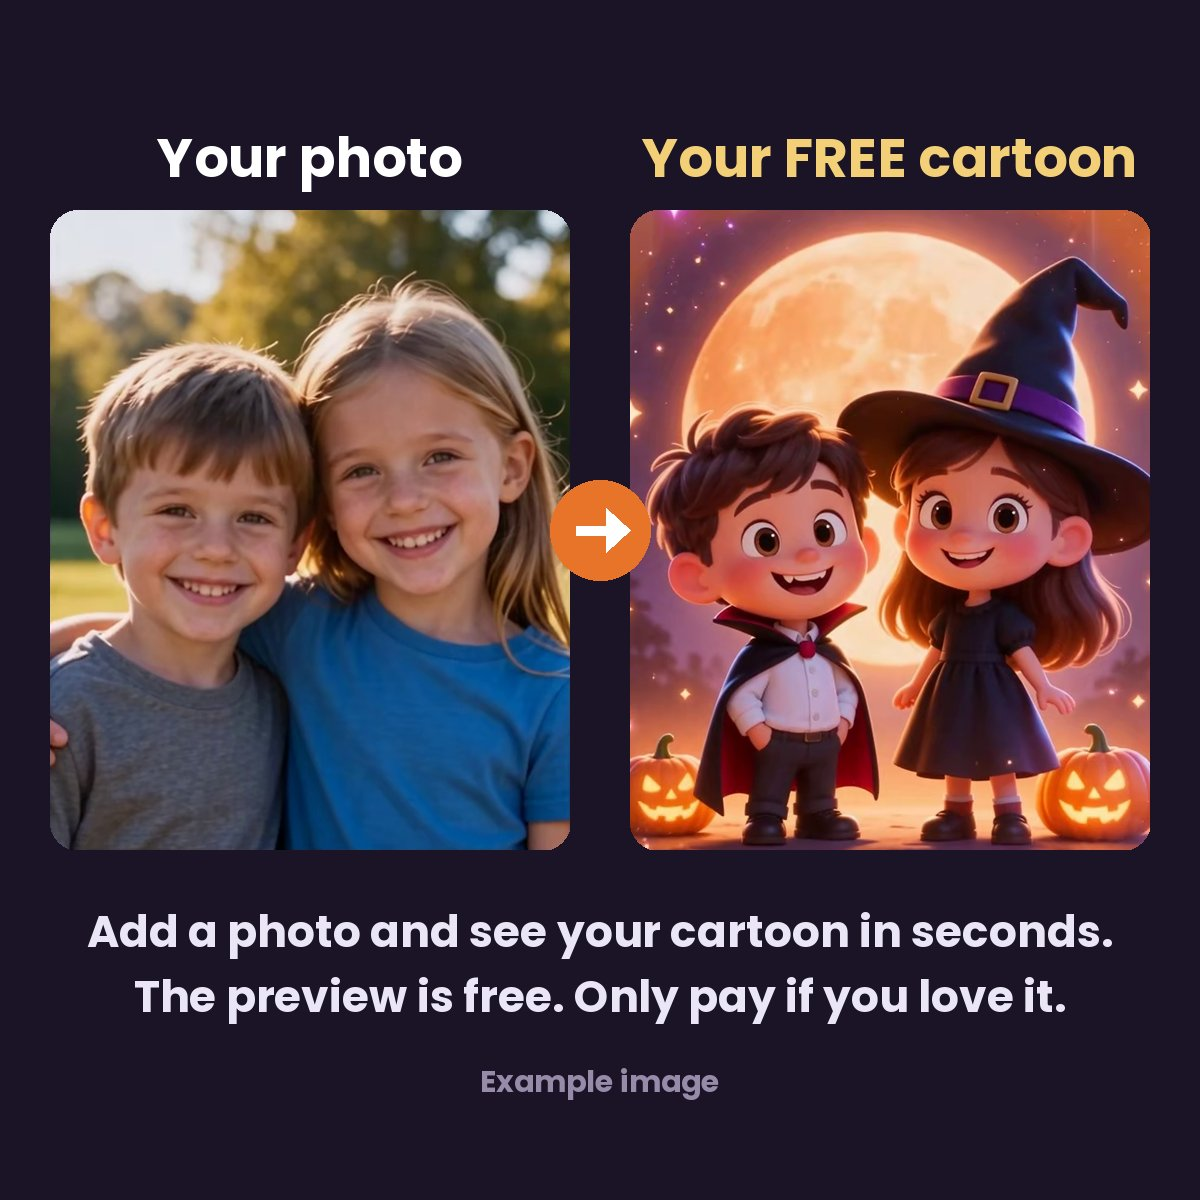
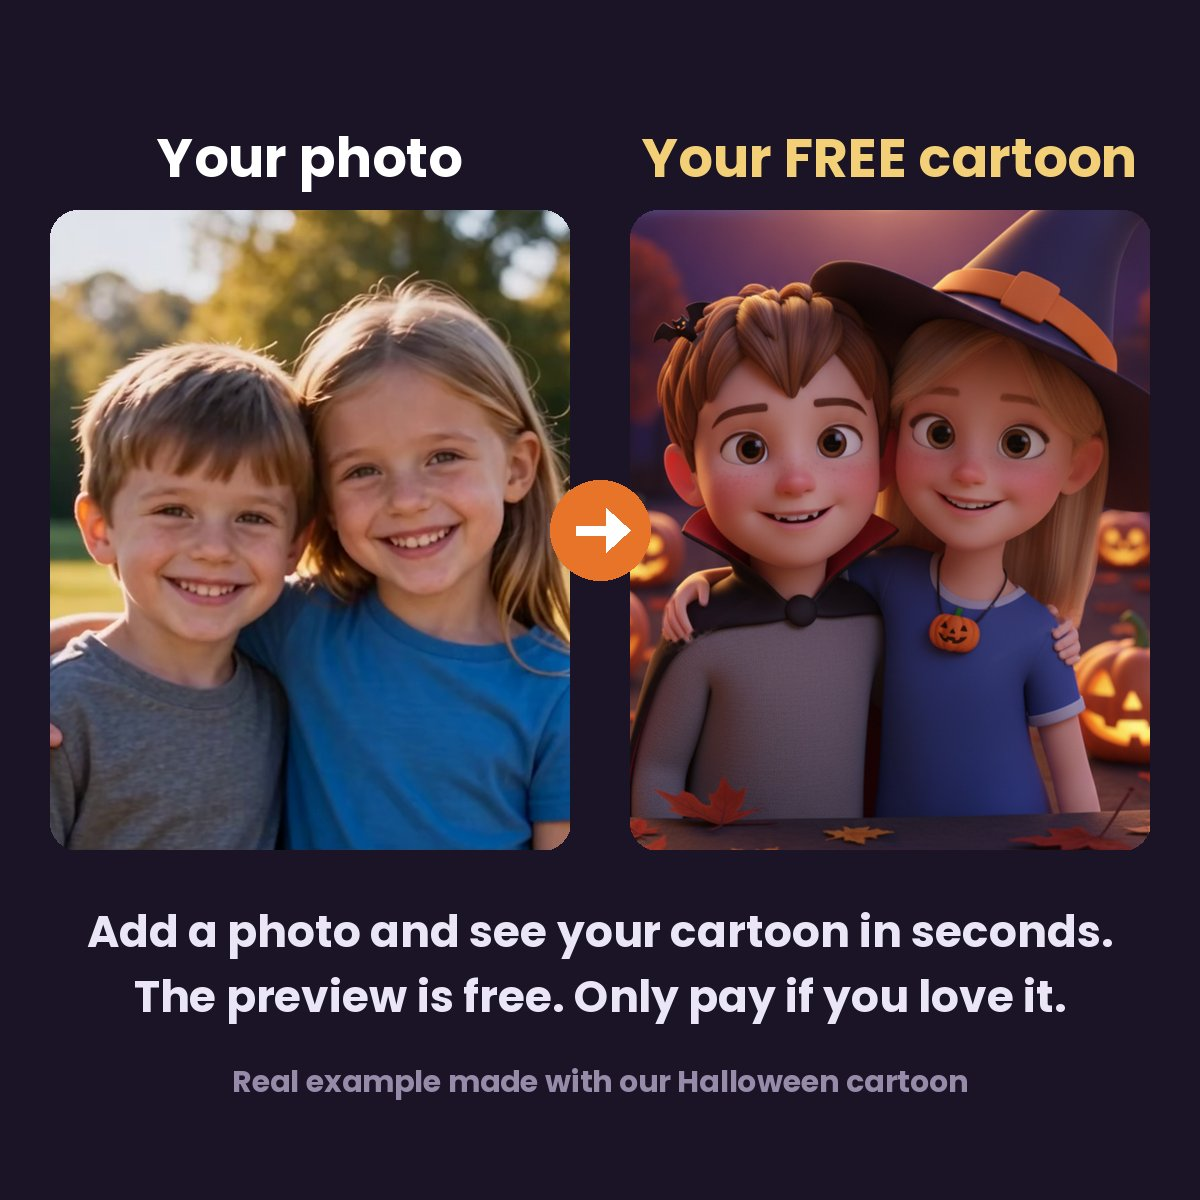
Halloween page: photo step first, real cartoon example, easier basket
- Photo upload is now step 1 on the Halloween page (other pages unchanged)
- T-shirt size/colour picker sits directly under the T-shirt option
- Example image uses a real cartoon from our Halloween preview
- Basket gets an 'Empty basket' button and a clearer remove cross

Claude-Session: https://claude.ai/code/session_01MtCPF3kmhX7aPXARQ9Ngt1

diff --git a/landing.js b/landing.js
@@ -373,7 +373,7 @@ function ONJJEM_renderLanding(P) {
               <span class="o-price">${money(o.price)}</span>
             </label>`).join("")}
         </div>
-        <div id="variantWrap" style="display:none;margin-top:0.7rem">
+        <div id="variantWrap" style="display:none;margin:0.7rem 0 0.9rem">
           <span style="font-weight:700;display:block;margin-bottom:0.35rem">👕 Choose the T-shirt size &amp; colour</span>
           <div style="display:flex;gap:0.5rem">
           <select id="sizeSel" aria-label="Size" style="flex:1;padding:0.75rem;border-radius:10px;border:1px solid #555;background:#1f1f1f;color:#fff;font-size:1rem"></select>
@@ -424,6 +424,19 @@ function ONJJEM_renderLanding(P) {
   <div class="sticky-buy" id="stickyBuy"><a href="#order" class="btn">${P.stickyCta ? esc(P.stickyCta) : `${esc(P.cta || "Create yours now")} — ${money(fromPrice)}`}</a></div>
   `;
 
+  // Pages can ask for the photo step first (it's the step that leads to the free preview).
+  if (P.photoFirst) {
+    const ob = app.querySelector(".order-box");
+    const [lab1, lab2] = ob.querySelectorAll(".order-label");
+    const total = ob.querySelector(".order-total");
+    const moving = [];
+    for (let n = lab2; n && n !== total; n = n.nextSibling) moving.push(n);
+    moving.forEach(n => ob.insertBefore(n, lab1));
+    lab2.textContent = lab2.textContent.replace(/^2\./, "1.");
+    lab1.textContent = lab1.textContent.replace(/^1\./, "2.");
+    lab1.style.marginTop = "1rem";
+  }
+
   // Option selection
   const optionEls = app.querySelectorAll(".option");
   // Size / colour choices for options that have them (e.g. T-shirts).
@@ -436,6 +449,8 @@ function ONJJEM_renderLanding(P) {
     sizeSel.innerHTML = `<option value="">Choose a size…</option>` + o.sizes.map(([v, l]) => `<option value="${v}">${esc(l)}</option>`).join("");
     colourSel.innerHTML = o.colours.map(([v, l]) => `<option value="${v}">${esc(l)}</option>`).join("");
     variantWrap.style.display = "block";
+    const selEl = app.querySelectorAll(".option")[selected];
+    if (selEl) selEl.after(variantWrap);
   }
   // The option as it will be ordered, with the chosen size and colour.
   function chosen() {
@@ -790,10 +805,16 @@ async function ONJJEM_openBasket() {
         <button class="cartoon-btn-primary" id="basketCheckout" style="width:100%;margin-top:0.6rem">Checkout securely →</button>
         <div id="basketStatus" class="cartoon-email-note" style="min-height:1.2em;margin-top:0.4rem"></div>` : ""}
       <button class="cartoon-btn-secondary" id="basketMore" style="width:100%;margin-top:0.5rem">Keep shopping</button>
+      ${items.length ? `<button type="button" id="basketEmpty" style="display:block;margin:0.8rem auto 0;background:none;border:none;color:#bbb;text-decoration:underline;font-size:0.9rem;cursor:pointer">🗑 Empty basket</button>` : ""}
     </div>`;
   document.body.appendChild(panel);
   panel.addEventListener("click", e => { if (e.target === panel) panel.remove(); });
   panel.querySelector("#basketMore").onclick = () => { panel.remove(); if (!window.PAGE) location.href = "/tiktok"; };
+  const emptyBtn = panel.querySelector("#basketEmpty");
+  if (emptyBtn) emptyBtn.onclick = async () => {
+    if (!confirm("Remove everything from your basket?")) return;
+    await ONJJEM_Basket.clear(); ONJJEM_openBasket();
+  };
   panel.querySelectorAll(".basket-remove").forEach(b => b.onclick = async () => { await ONJJEM_Basket.remove(b.dataset.id); ONJJEM_openBasket(); });
   const go = panel.querySelector("#basketCheckout");
   if (go) go.onclick = async () => {

diff --git a/basket.css b/basket.css
@@ -8,7 +8,7 @@
 .basket-info { flex: 1; font-size: 0.9rem; }
 .basket-info small { display: block; opacity: 0.75; }
 .basket-price { font-weight: 800; white-space: nowrap; }
-.basket-remove { background: none; border: none; color: inherit; opacity: 0.6; font-size: 1rem; cursor: pointer; padding: 0.3rem; }
+.basket-remove { background: none; border: none; color: inherit; opacity: 0.95; font-size: 1.3rem; cursor: pointer; padding: 0.3rem; }
 .basket-sum { display: flex; justify-content: space-between; padding: 0.3rem 0; font-size: 0.95rem; }
 .basket-total { font-weight: 800; font-size: 1.1rem; border-top: 1px solid rgba(255,255,255,0.15); margin-top: 0.3rem; padding-top: 0.5rem; }
 .buy-btn.basket-add { background: #d4af37; margin-bottom: 0.5rem; }

diff --git a/landing.css b/landing.css
@@ -140,7 +140,7 @@ a { color: var(--gold); }
 .basket-info { flex: 1; font-size: 0.9rem; }
 .basket-info small { display: block; opacity: 0.75; }
 .basket-price { font-weight: 800; white-space: nowrap; }
-.basket-remove { background: none; border: none; color: inherit; opacity: 0.6; font-size: 1rem; cursor: pointer; padding: 0.3rem; }
+.basket-remove { background: none; border: none; color: inherit; opacity: 0.95; font-size: 1.3rem; cursor: pointer; padding: 0.3rem; }
 .basket-sum { display: flex; justify-content: space-between; padding: 0.3rem 0; font-size: 0.95rem; }
 .basket-total { font-weight: 800; font-size: 1.1rem; border-top: 1px solid rgba(255,255,255,0.15); margin-top: 0.3rem; padding-top: 0.5rem; }
 

diff --git a/halloween.html b/halloween.html
@@ -40,6 +40,7 @@ window.PAGE = {
   optionWord: "your Halloween gift",
   orderTitle: "Make your Halloween gift",
   cartoon: true,
+  photoFirst: true,
   textAspect: 1,
   pngMaxPx: 2000,
   photoHint: "A clear, bright photo of one or two faces works best: a child, a couple or the whole family.",
